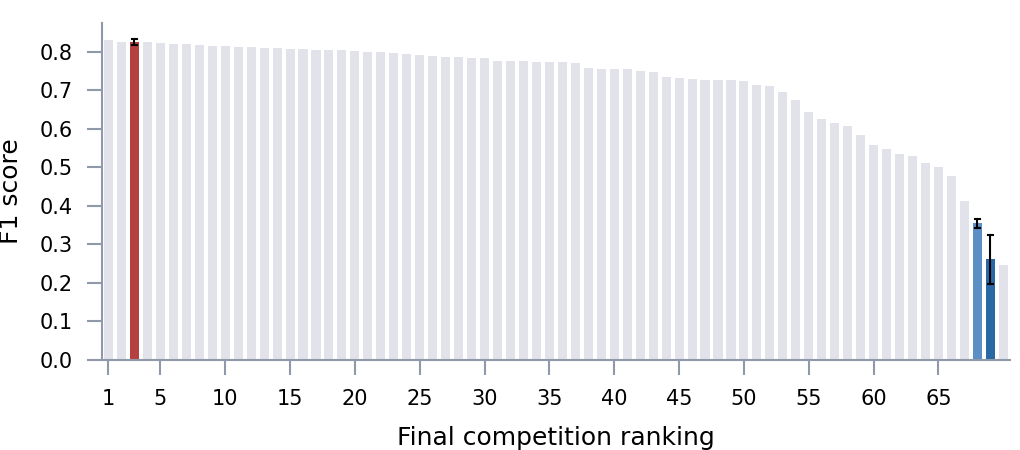
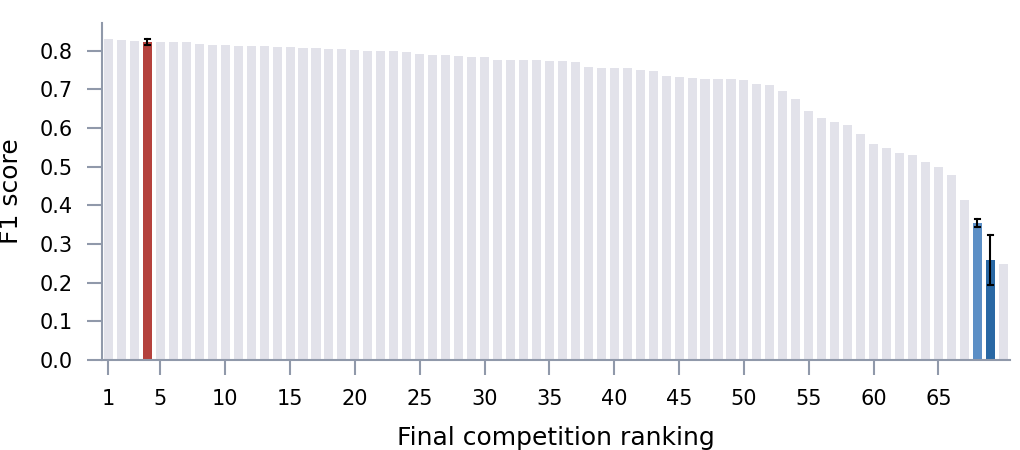
Bugfixes

diff --git a/aladin/src/reflect.cpp b/aladin/src/reflect.cpp
@@ -34,7 +34,7 @@ void Reflection::reflect_on_noise() {
         } 
     }
     tools.closingcentered(record->delineations->noise->binary, record->delineations->noise->size, 0.5*record->fs, record->delineations->noise->binary);
-    tools.openingcentered(record->delineations->noise->binary, record->delineations->noise->size, 0.5*record->fs, record->delineations->noise->binary);
+    //tools.openingcentered(record->delineations->noise->binary, record->delineations->noise->size, 2*record->fs, record->delineations->noise->binary);
 
     //std::cout << "Noise:";
     for(int i=0; i<record->delineations->noise->size; i++) {
@@ -48,6 +48,12 @@ void Reflection::reflect_on_noise() {
     }
     //std::cout << std::endl;
 }
+
+// void Reflection::merge_noise_regions() {
+
+//     tools.closingcentered(record->delineations->noise->binary, record->delineations->noise->size, 2*record->fs, record->delineations->noise->binary);
+//     tools.openingcentered(record->delineations->noise->binary, record->delineations->noise->size,2*record->fs, record->delineations->noise->binary);
+// }
 
 void Reflection::extend_afib_if_possible() {
     // Placeholder for extending AFIB logic
@@ -1137,9 +1143,13 @@ void Reflection::match_p_waves_to_qrs() {
 
             //Check if the P wave is too far away from the QRS wave
             
-            if (abs(lastcandidate->start - beats[i]->start) > 0.5 * record->fs) {
+            if (beats[i]->pr > 0.5) {
                 //P wave is too far, so we note that this beat is unmatched
                 lastcandidate->unmatched = true;
+            }
+
+            if (beats[i]->pr > 0.075 && beats[i]->pr < 0.2 && beats[i]->abnormal_uncertainty > -1) {
+                beats[i]->abnormal = false;
             }
 
             if (candidates.size() > 1) {
@@ -1204,7 +1214,7 @@ void Reflection::reflect_on_qrs() {
     //Identify beat abnormality within clusters
     for (int i = 0; i < clusterer_qrs->get_number_of_clusters(); ++i) {
         std::shared_ptr<Cluster> cluster = clusterer_qrs->get_cluster(i);
-        //identify_abnormality(cluster, clusterer_qrs->get_number_of_clusters());
+        identify_abnormality(cluster, clusterer_qrs->get_number_of_clusters());
     }
     
     //determine r peak
@@ -1450,40 +1460,46 @@ void Reflection::identify_abnormality(std::shared_ptr<Cluster> cluster, int numb
             } else if (beat->p_wave != nullptr && ((beat->get_global_start()) - (beat->p_wave->get_global_start())) < 0.075*record->fs) {
                 beat->no_atrial_activity = true;
                 number_of_no_atrial_activity++;
+            } else if (beat->p_wave != nullptr && ((beat->get_global_start()) - (beat->p_wave->get_global_start())) > 0.3*record->fs) {
+                beat->no_atrial_activity = true;
+                number_of_no_atrial_activity++;
             } else {
                 beat->no_atrial_activity = false;
             }
             
-            mean_abnormal_uncertainty += beat->abnormal_uncertainty;
-            if (beat->abnormal_logit > 0.25) {
-                beat->abnormal = true;
-                number_of_abnormal_beats++;
-            } else if (beat->abnormal_logit > 0.1 && beat->no_atrial_activity) {
-                beat->abnormal = true;
-                number_of_abnormal_beats++;
-            } else if (beat->abnormal_uncertainty > -2.5 && beat->no_atrial_activity) {
-                beat->abnormal = true;
-                number_of_abnormal_beats++;
-            } else {
+            //mean_abnormal_uncertainty += beat->abnormal_uncertainty;
+            if (beat->abnormal && !beat->no_atrial_activity) {
                 beat->abnormal = false;
             }
+            // if (beat->abnormal_logit > 0.25) {
+            //     beat->abnormal = true;
+            //     number_of_abnormal_beats++;
+            // } else if (beat->abnormal_logit > 0.1 && beat->no_atrial_activity) {
+            //     beat->abnormal = true;
+            //     number_of_abnormal_beats++;
+            // } else if (beat->abnormal_uncertainty > -2.5 && beat->no_atrial_activity) {
+            //     beat->abnormal = true;
+            //     number_of_abnormal_beats++;
+            // } else {
+            //     beat->abnormal = false;
+            // }
         }
     }
 
 
-    mean_abnormal_uncertainty /= cluster->get_number_of_beats();
+    //mean_abnormal_uncertainty /= cluster->get_number_of_beats();
 
     //Identify cluster abnormality
-    if (number_of_abnormal_beats > 1) {
-        for (int i = 0; i < cluster->get_number_of_beats(); ++i) {
-            if(auto beat = std::dynamic_pointer_cast<QRS>(cluster->get_beat(i))) {
-                //std::cout << "Beat " << beat->id << ": " << beat->abnormal_logit << ", " << beat->abnormal_uncertainty << std::endl;
-                if (beat->abnormal_uncertainty > -2.5) {
-                    beat->abnormal = true;
-                }
-            }
-        }
-    }
+    // if (number_of_abnormal_beats > 1) {
+    //     for (int i = 0; i < cluster->get_number_of_beats(); ++i) {
+    //         if(auto beat = std::dynamic_pointer_cast<QRS>(cluster->get_beat(i))) {
+    //             //std::cout << "Beat " << beat->id << ": " << beat->abnormal_logit << ", " << beat->abnormal_uncertainty << std::endl;
+    //             if (beat->abnormal_uncertainty > -2.5) {
+    //                 beat->abnormal = true;
+    //             }
+    //         }
+    //     }
+    // }
 
     //std::cout << "Number of abnormal beats: " << number_of_abnormal_beats << std::endl;
     //std::cout << "Ratio of abnormal beats: " << ((float)number_of_abnormal_beats/(float)cluster->get_number_of_beats()) << std::endl;
@@ -1502,17 +1518,18 @@ void Reflection::identify_abnormality(std::shared_ptr<Cluster> cluster, int numb
     // std::cout << "Ratio of beats with no atrial activity: " << ((float)number_of_no_atrial_activity/(float)cluster->get_number_of_beats()) << std::endl;
 
     //Check mean uncertainty when there are more than one cluster
-    if (number_of_clusters > 1) {
-        if (mean_abnormal_uncertainty > -5) {
-            for (int i = 0; i < cluster->get_number_of_beats(); ++i) {
-                if(auto beat = std::dynamic_pointer_cast<QRS>(cluster->get_beat(i))) {
-                    if (beat->abnormal_uncertainty > -5 && beat->width >= 0.12*record->fs && beat->no_atrial_activity) {
-                        //beat->abnormal = true;
-                    }
-                }
-            }
-        }
-    } else {
+    // if (number_of_clusters > 1) {
+    //     if (mean_abnormal_uncertainty > -5) {
+    //         for (int i = 0; i < cluster->get_number_of_beats(); ++i) {
+    //             if(auto beat = std::dynamic_pointer_cast<QRS>(cluster->get_beat(i))) {
+    //                 if (beat->abnormal_uncertainty > -5 && beat->width >= 0.12*record->fs && beat->no_atrial_activity) {
+    //                     beat->abnormal = true;
+    //                 }
+    //             }
+    //         }
+    //     }
+    // } else {
+    if (number_of_clusters == 0) {
         // Last defence for LBBB and RBBB
         if (((float)number_of_no_atrial_activity/(float)cluster->get_number_of_beats()) < 0.25) {
             for (int i = 0; i < cluster->get_number_of_beats(); ++i) {

diff --git a/aladin/src/aladin/__init__.py b/aladin/src/aladin/__init__.py
@@ -47,7 +47,7 @@ class ALADIN():
             if key in self.debug:
                 self.debug[key] = debug[key]
 
-    def plot(self, record: Record, xlim=None):
+    def plot(self, record: Record, xlim=None, annotations=None):
 
         if xlim is None:
             xlim = [0, len(record.ecg) / record.fs]
@@ -58,7 +58,7 @@ class ALADIN():
         interquartile_range = np.percentile(dsig, 95) - np.percentile(dsig, 5)
         lower_bound = np.percentile(dsig, 5) - 1.5 * interquartile_range
         upper_bound = np.percentile(dsig, 95) + 1.5 * interquartile_range
-        sig = record.filtered_ecg[int(xlim[0]*record.fs):int(xlim[1]*record.fs)]
+        sig = record.ecg[int(xlim[0]*record.fs):int(xlim[1]*record.fs)]
         dsig = np.diff(sig)
         #median filter of 3 samples
         dsig = np.where(np.abs(dsig) > upper_bound, 0, dsig)
@@ -142,6 +142,10 @@ class ALADIN():
         for region in noise_regions:
             ax.axvspan(region[0], region[1], color='#908894', alpha=0.4)
 
+        if annotations is not None:
+            for annotation in annotations:
+                ax.text(annotation[1], ymax, annotation[0], fontsize=8, color="black", ha='center', va='center')
+
         ax.set_xlim(xlim[0]*record.fs, xlim[1]*record.fs)
 
         ax.set_ylabel("Amplitude (mV)")
@@ -188,6 +192,8 @@ class ALADIN():
         st = time.time()
         self.logic.diagnose(record)
         print("Logic", time.time()-st)
+
+        self.logic.print_diagnoses(record)
 
         self.reflection.reset()
         

diff --git a/paper/icentia-large.py b/paper/icentia-large.py
@@ -105,7 +105,7 @@ def get_results_from_folder(folder_path):
     for file_name in os.listdir(folder_path):
         if file_name.endswith('.pkl.gz'):
 
-            relative_path = os.path.relpath(folder_path, os.environ.get('benchmark_data')+'/ICENTIA-results/ICENTIA')
+            relative_path = os.path.relpath(folder_path, os.environ.get('benchmark_data')+'/ICENTIA-results/ICENTIA-Dataset301')
             recordname = file_name[:-7]
             anns = wfdb.rdann(os.path.join("/home/lukas/UU/ASRA/ALADINv2/data/ICENTIA", relative_path, recordname), 'atr')
             t = get_diagnosis_from_ann(anns)
@@ -117,8 +117,8 @@ def get_results_from_folder(folder_path):
                 diagnoses = data.get("diagnosis", [])
                 d = []
                 for diagnosis in diagnoses:
-                    onset = diagnosis.get("onset", 0)
-                    offset = diagnosis.get("offset", 0)
+                    onset = diagnosis.get("onset")
+                    offset = diagnosis.get("offset")
                     duration = (offset - onset) / 250  # Convert to seconds
 
                     use = True
@@ -183,7 +183,7 @@ def create_results_json(patients):
 
 if __name__ == "__main__":
     basefolder = os.environ.get('benchmark_data')
-    patients = find_patients(basefolder+'/ICENTIA-results/ICENTIA')
+    patients = find_patients(basefolder+'/ICENTIA-results/ICENTIA-Dataset301')
     print(f"Found {len(patients)} patient folders.")
 
     create_results_json(patients)

diff --git a/aladin/src/aladin/logicengine/logic.py b/aladin/src/aladin/logicengine/logic.py
@@ -2,6 +2,7 @@ import numpy as np
 from aladin.utils.helpers import Record
 import re
 import time
+import ruptures as rpt
 
 import aladin._main as cpp_backend
 from aladin.utils.helpers import Cluster, Beat, Record, resize_signal, get_regions, closingcentered, openingcentered
@@ -59,7 +60,11 @@ class LogicEngine():
 
         #get the RR intervals
         rrs = [60/beats[i].rr_smooth if beats[i].diagnosis != "AFIB" and beats[i].rr_smooth > 0 else np.nan for i in range(1,len(beats))]
-        #print(rrs)
+        # print(rrs)
+
+        # algo = rpt.Pelt(model="rbf").fit(np.array(rrs))
+        # change_points = algo.predict(pen=10)  # Adjust penalty to be more or less sensitive
+        #print("Change points detected at indices:", change_points)
 
         #get regions of tachycardia
         tachycardia = np.array(rrs) > 100
@@ -609,6 +614,8 @@ class LogicEngine():
         noise_mask = record.delineations.noise.binary
         afib = record.delineations.afib.binary
         noise_mask[afib == 1] = 0
+        noise_mask = closingcentered(noise_mask, np.ones(int(record.fs*0.5)))
+        noise_mask = openingcentered(noise_mask, np.ones(int(record.fs*0.5)))
         regions = get_regions(noise_mask)
 
         for region in regions:

diff --git a/paper/icentia.py b/paper/icentia.py
@@ -77,10 +77,11 @@ for i, arrhythmia in enumerate(arrhythmias):
                 tp[i] += 1
             else:
                 fn[i] += 1
-                #print(f"False Positive for {arrhythmia} in record {patients[j]}: {preds[j]}")
+                print(f"False Negative for {arrhythmia} in record {recs[j]}: {preds[j]}")
         elif arrhythmia in preds[j]:
             fp[i] += 1
-            #print(f"False Positive for {arrhythmia} in record {patients[j]}: {preds[j]}")
+            if arrhythmia != "AFIB/AFL":
+                print(f"False Positive for {arrhythmia} in record {recs[j]}: {preds[j]}")
         else:
             tn[i] += 1
             

diff --git a/benchmark_diagnosis.py b/benchmark_diagnosis.py
@@ -24,7 +24,6 @@ from nnunetv2.inference.predict_from_raw_data import nnUNetPredictor, nnUNetWith
 from nnunetv2.paths import nnUNet_results, nnUNet_raw
 from batchgenerators.utilities.file_and_folder_operations import join
 import psutil
-from google.cloud import firestore
 import pickle
 
 import concurrent.futures

diff --git a/aladin/src/common.h b/aladin/src/common.h
@@ -213,6 +213,7 @@ class Delineation {
             uncertainty = _uncertainty.mutable_data();
             binary_python = _binary; // Keep ownership alive
             binary = _binary.mutable_data();
+
         }
 
         py::array_t<float> get_logits() const { return logits_python; }

diff --git a/paper/test_rr.py b/paper/test_rr.py
@@ -1,0 +1,12 @@
+import numpy as np
+import matplotlib.pyplot as plt
+
+rrs = np.loadtxt('paper/rrs.txt')
+print(rrs)
+ibis = 60/rrs
+
+ts = np.cumsum(ibis)
+
+fig, ax = plt.subplots(figsize=(10, 6))
+ax.plot(ts, rrs)
+plt.show()
